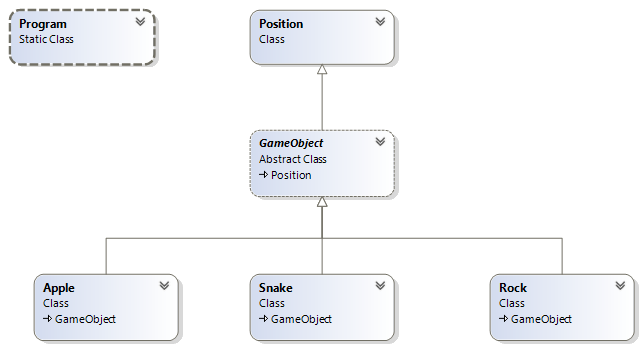
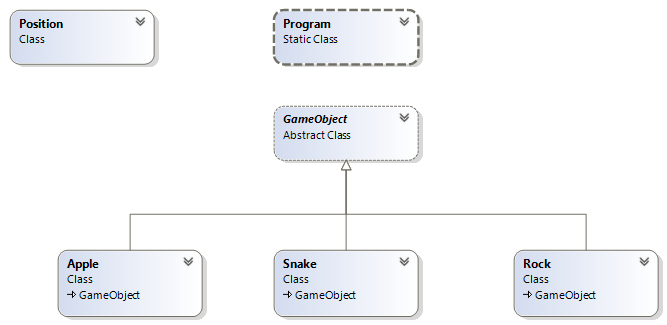
Refactoring

Changed region(s): [[0.0311, 0.3077, 0.9953, 0.9846], [0.0, 0.0, 0.2488, 0.2154], [0.3733, 0.0308, 0.6532, 0.2154]]

diff --git a/Snake2/GameObject.cs b/Snake2/GameObject.cs
@@ -2,16 +2,30 @@
 {
     using System;
 
-    public abstract class GameObject : Position
+    public abstract class GameObject
     {
+        private int x;
+        private int y;
+
         private char body;
         private ConsoleColor color;
 
         protected GameObject(int x, int y)
-            : base(x, y)
         {
             this.X = x;
             this.Y = y;
+        }
+
+        public int X
+        {
+            get { return this.x; }
+            set { this.x = value; }
+        }
+
+        public int Y
+        {
+            get { return this.y; }
+            set { this.y = value; }
         }
 
         public char Body
